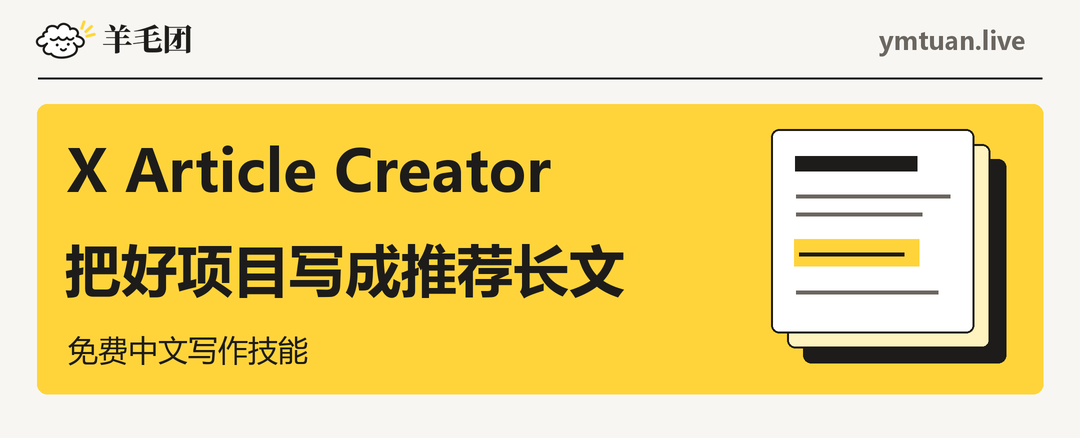
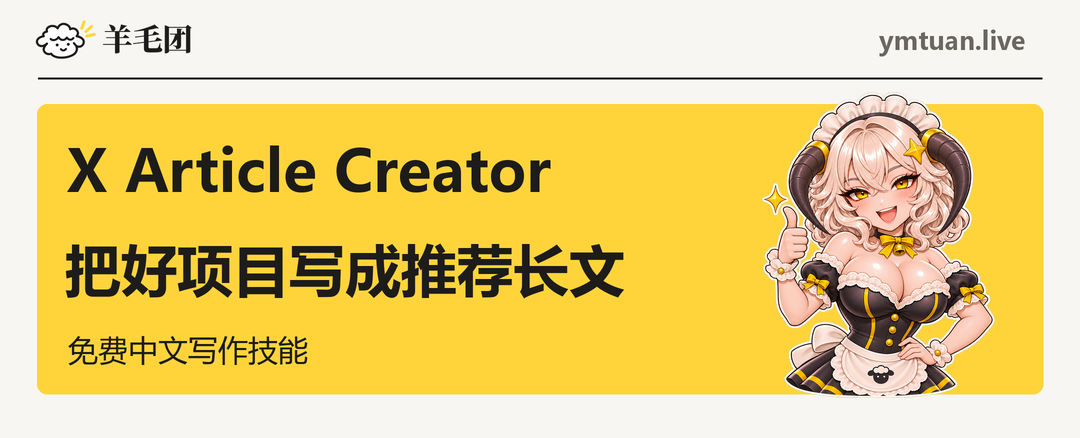
design: feature Miejiang on the writing skill cover

Changed region(s): [[0.7028, 0.2078, 0.9472, 0.9201]]

diff --git a/README.md b/README.md
@@ -1,6 +1,6 @@
 # X Article Creator · 羊毛团的免费中文写作 Skill
 
-![羊毛团 X Article Creator：把好项目写成推荐长文](assets/writing-skill-cover.png)
+![羊毛团的咩酱竖起大拇指，推荐免费写作技能 X Article Creator：把好项目写成推荐长文](assets/writing-skill-cover.png)
 
 你收藏了一个开源项目，隔天想把它推荐给朋友。光标在「发现一个宝藏工具」后面闪了半天。项目能做的事，作者已经在首页写得很全了。朋友特意来读你这篇，还能多知道什么？
 
